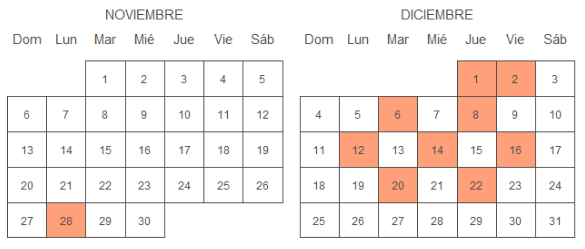
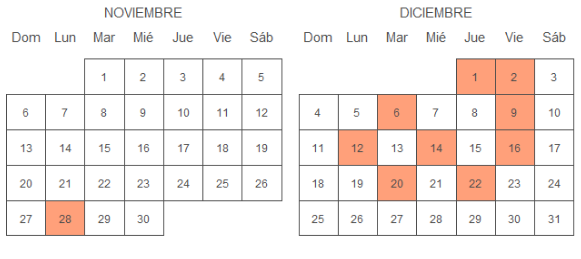
updated calendar of the class

Changed region(s): [[0.0, 0.1124, 0.9914, 0.9558], [0.6816, 0.0281, 0.8365, 0.0843], [0.1549, 0.0281, 0.3098, 0.0843]]

diff --git a/docs/index.html b/docs/index.html
@@ -305,6 +305,10 @@ ul.task-list li input[type="checkbox"] {
 </tbody>
 </table>
 </section>
+<section id="fechas-de-clases" class="level2">
+<h2 class="anchored" data-anchor-id="fechas-de-clases">Fechas de Clases</h2>
+<p><img src="course-materials/slides/u1-d1-welcome/images/calendar.png" class="img-fluid"></p>
+</section>
 <section id="proyectos-del-módulo" class="level2">
 <h2 class="anchored" data-anchor-id="proyectos-del-módulo">Proyectos del Módulo</h2>
 </section>

diff --git a/docs/course-materials/slides/u1-d1-welcome/u1-d01-welcome.html b/docs/course-materials/slides/u1-d1-welcome/u1-d01-welcome.html
@@ -379,11 +379,11 @@ Rolando Mirabal, Desarrollador de Insights Senior en Viva
 </section>
 <section id="revisión-del-plan-de-módulo" class="slide level2">
 <h2>Revisión del Plan de Módulo</h2>
-<table>
+<table style="width:100%;">
 <colgroup>
-<col style="width: 25%">
-<col style="width: 49%">
-<col style="width: 25%">
+<col style="width: 16%">
+<col style="width: 66%">
+<col style="width: 16%">
 </colgroup>
 <thead>
 <tr class="header">
